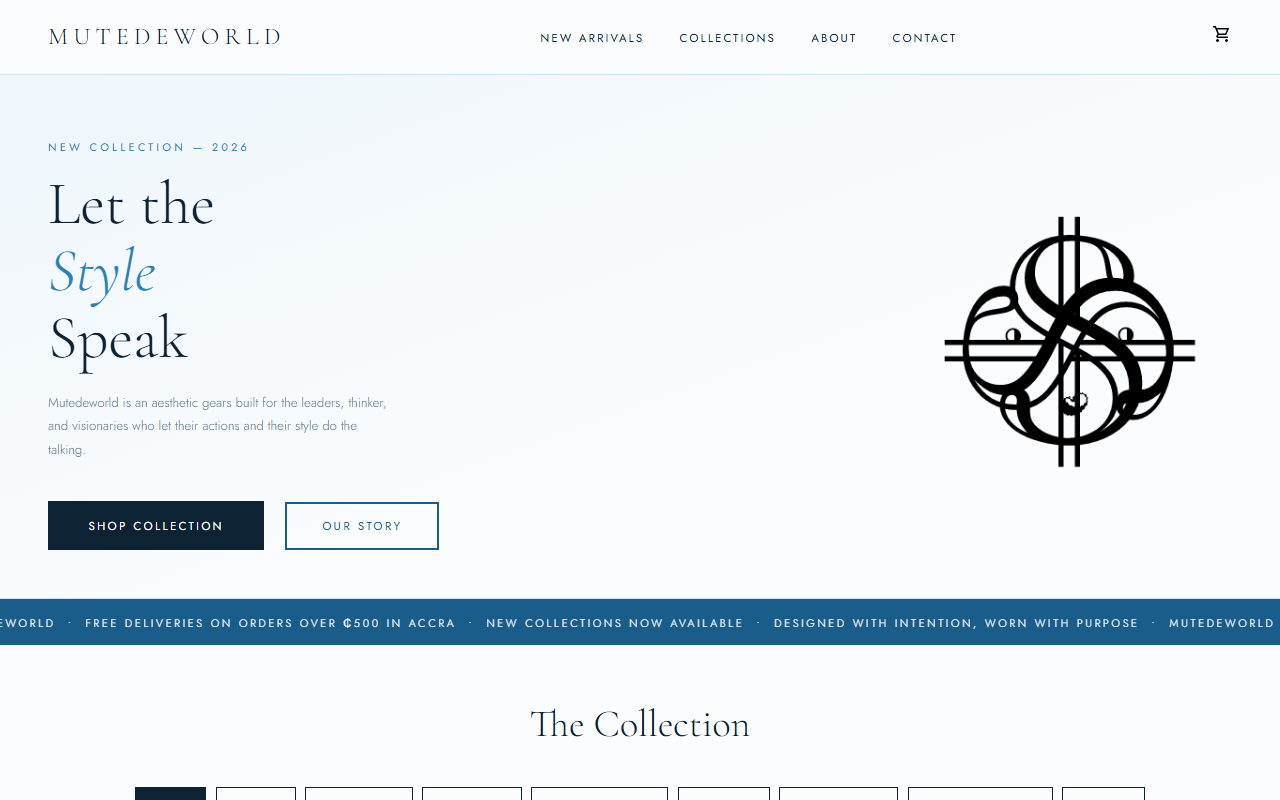
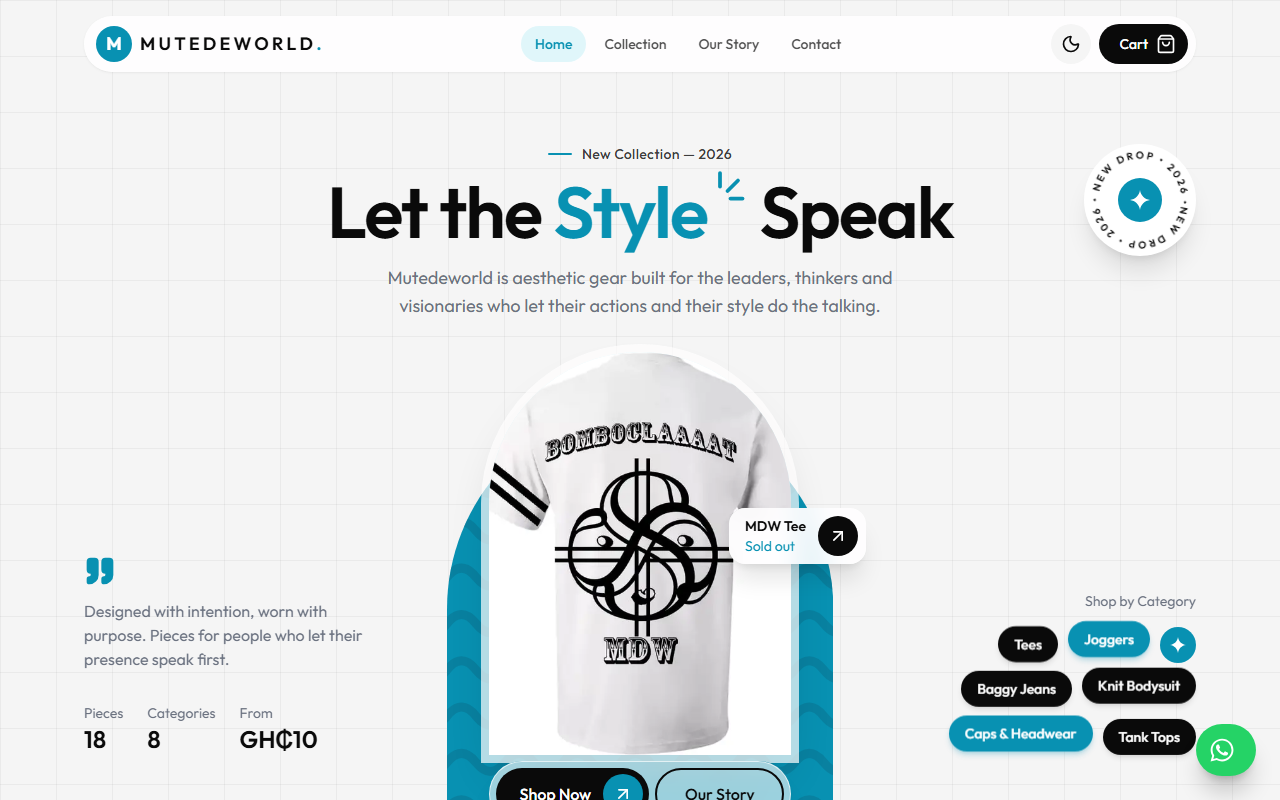
Update Mutedeworld project to the new full-stack store

diff --git a/src/data/portfolio.ts b/src/data/portfolio.ts
@@ -107,10 +107,10 @@ export const projects = [
   {
     title: "Mutedeworld Fashion Store",
     description:
-      "An online storefront for a luxury fashion brand in Accra, with a product catalogue rendered from JavaScript data, animated category filters, and a shopping cart saved across pages.",
-    tech: ["HTML", "CSS", "JavaScript"],
+      "A full-stack online store for an Accra fashion brand, with product pages, size guides, a cart drawer, and a checkout that sends orders to the shop on WhatsApp. An admin dashboard lets the owner manage products and track orders, all backed by a Supabase database.",
+    tech: ["Next.js", "TypeScript", "Tailwind CSS", "Supabase", "Framer Motion"],
     image: "/projects/mutedeworld.png",
-    liveUrl: "https://topboykelly.github.io/mutedeworld/",
+    liveUrl: "https://mutedeworld.vercel.app/",
     repoUrl: "https://github.com/topboykelly/mutedeworld",
     featured: true,
   },
